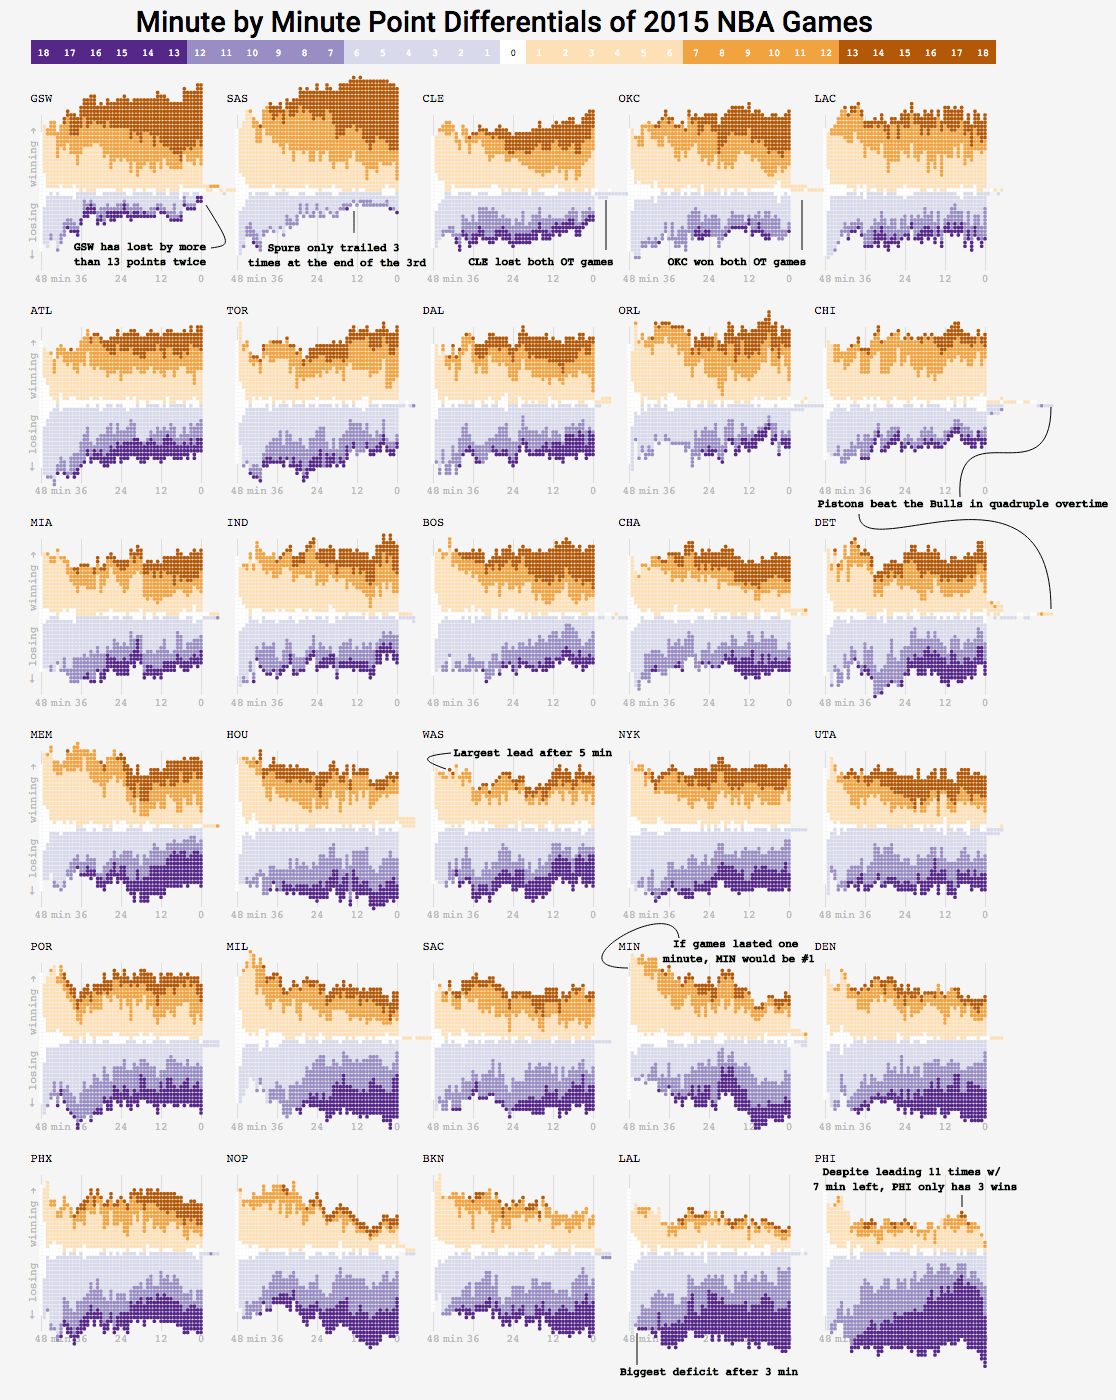
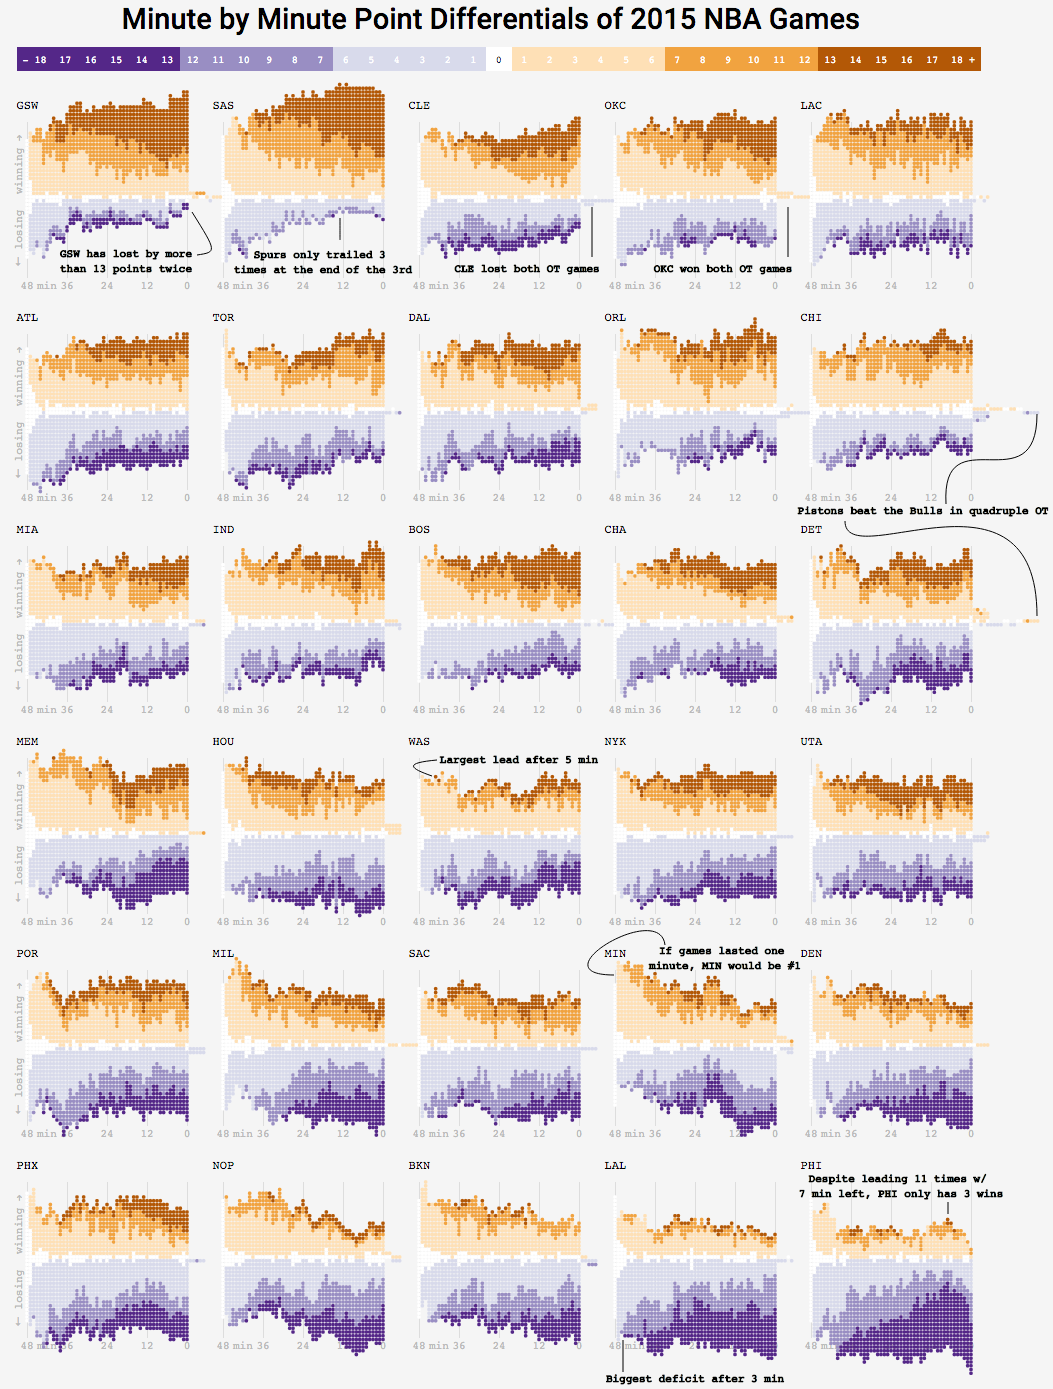
update screen shot

diff --git a/source/javascripts/posts/nba-minutes/script.js b/source/javascripts/posts/nba-minutes/script.js
@@ -24,9 +24,9 @@ var annontations = {
     path: 'M 173,85 V 135'
   },
   CHI: {
-    text: "Pistons beat the Bulls in quadruple overtime",
+    text: "Pistons beat the Bulls in quadruple OT",
     textAnchor: 'middle',
-    textPos: [138, 180],
+    textPos: [112, 180],
     path: 'M 226,80 C 226,172 130,80 135,170'
   },
   DET: {
@@ -107,12 +107,11 @@ d3.json('/javascripts/posts/nba-minutes/games.json', function(res){
     team.wins = team.values.filter(function(d){ return _.last(d.minutes).dif > 0 }).length/team.values.length + (team.key == 'CHI' ? -.01 : 0)
   })
 
+
   teamSel = d3.select('#graph').dataAppend(_.sortBy(byTeam, 'wins').reverse(), 'div.game').style('z-index', function(d, i){ return 100-i })
-  teamSel.append('div').text(ƒ('key'))//.style({'z-index': 3, position: 'relative'})
+  teamSel.append('div').text(ƒ('key'))
 
   function drawTeam(d){
-    // if (d.key != 'PHI') return
-
     var c = d3.conventions({
       parentSel: d3.select(this),
       height: 150, width: 160, 
@@ -123,12 +122,6 @@ d3.json('/javascripts/posts/nba-minutes/games.json', function(res){
     c.yAxis.tickValues([-15, 0, 15])
     c.yAxis.tickValues([])
     c.xAxis.tickValues([48, 36, 24, 12, 0])
-
-    // c.svg
-    //   .on('mousemove', function(){
-    //     console.log(d3.mouse(this).map(Math.round))
-    //   })
-    //     .append('rect').attr({height: c.height, width: c.width, opacity: 0})
 
     c.drawAxis()
 
@@ -162,7 +155,10 @@ d3.json('/javascripts/posts/nba-minutes/games.json', function(res){
         .attr('cy', ƒ('i', c.y))
         .attr('r', 1.9)
         .attr('fill', ƒ('dif', color))
-        .on('mouseover', function(d){
+        .on('mouseover', updateHover) 
+        .on('touchend', updateHover) 
+
+        function updateHover(d){
           lineSel.attr('d', line(d.game.minutes))
 
           circleSel.classed('selected', function(e){ return e.game == d.game })
@@ -177,7 +173,7 @@ d3.json('/javascripts/posts/nba-minutes/games.json', function(res){
           botTime.text(d.min)
           botScore.text(d.h + '-' + d.v)
           botLine.attr('d', ['M', c.x(d.min), 0, 'v', c.height].join(' '))
-        })
+        }
 
 
     var anno = annontations[d.key]
@@ -190,7 +186,6 @@ d3.json('/javascripts/posts/nba-minutes/games.json', function(res){
 
     annoG.append('path').attr('d', anno.path)
   }
-
 
   byTeam.forEach(function(d){ d.notDrawn = true })
   function drawNext(){

diff --git a/source/javascripts/posts/nba-minutes/style.css b/source/javascripts/posts/nba-minutes/style.css
@@ -5,6 +5,10 @@ body{
 	/*margin-left: -105px;*/
 }
 
+.source{
+	font: 11px monospace;
+}
+
 h1{
 	font-size: 29px;
 }
@@ -90,6 +94,7 @@ path.domain{
 	display: inline-block;
 	padding-bottom: 25px;
 	position: relative;
+	min-height: 187px;
 }
 
 .game div{

diff --git a/source/javascripts/posts/nba-minutes/readme.md b/source/javascripts/posts/nba-minutes/readme.md
@@ -1,10 +1,12 @@
-todo
+http://roadtolarissa.com/nba-minutes/
 
-- put in blog
-- meta img
-- lh ylabel
+todo
+- min height on games
 
 done
+- lh ylabel
+- meta img
+- put in blog
 - correct data - ties? det bkn
 - change z index
 - text shadow
